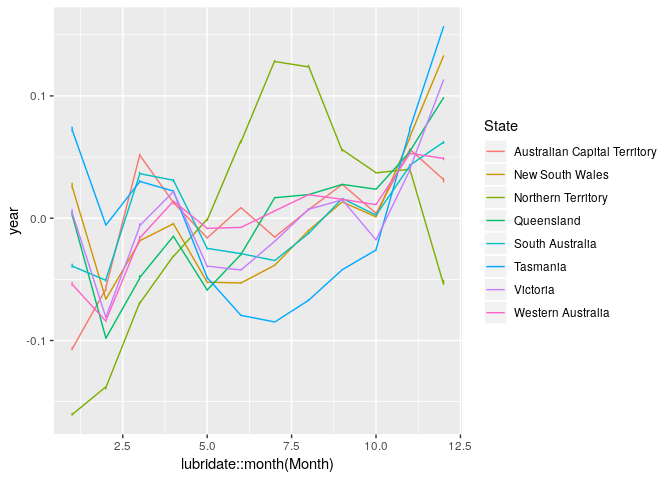
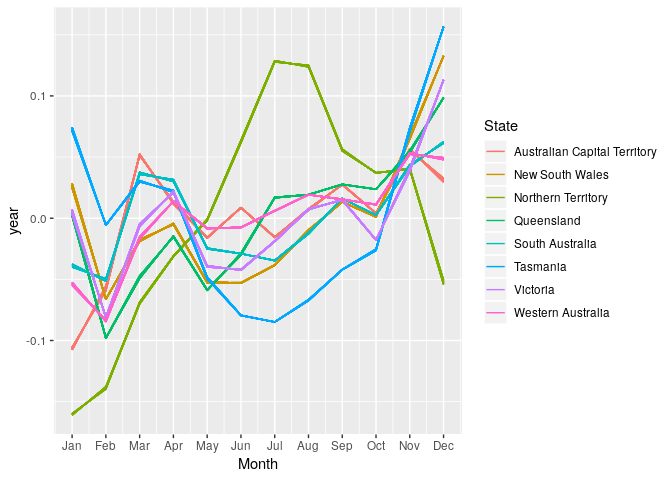
Fixed seasonal component plot to wrap over year

diff --git a/README.md b/README.md
@@ -98,10 +98,20 @@ components(fit)
 #> # ... with 3,422 more rows
 ```
 
+    #> 
+    #> Attaching package: 'lubridate'
+    #> The following objects are masked from 'package:tsibble':
+    #> 
+    #>     interval, new_interval
+    #> The following object is masked from 'package:base':
+    #> 
+    #>     date
+
 <img src="man/figures/README-components-plot-1.png" width="100%" /><img src="man/figures/README-components-plot-2.png" width="100%" />
 
-We can also produce forecasts for each of these series over the next two
-years.
+Note that the annual seasonal pattern does not change very quickly,
+although it does differ slightly between years. We can also produce
+forecasts for each of these series over the next two years.
 
 ``` r
 fc <- fit %>% 
